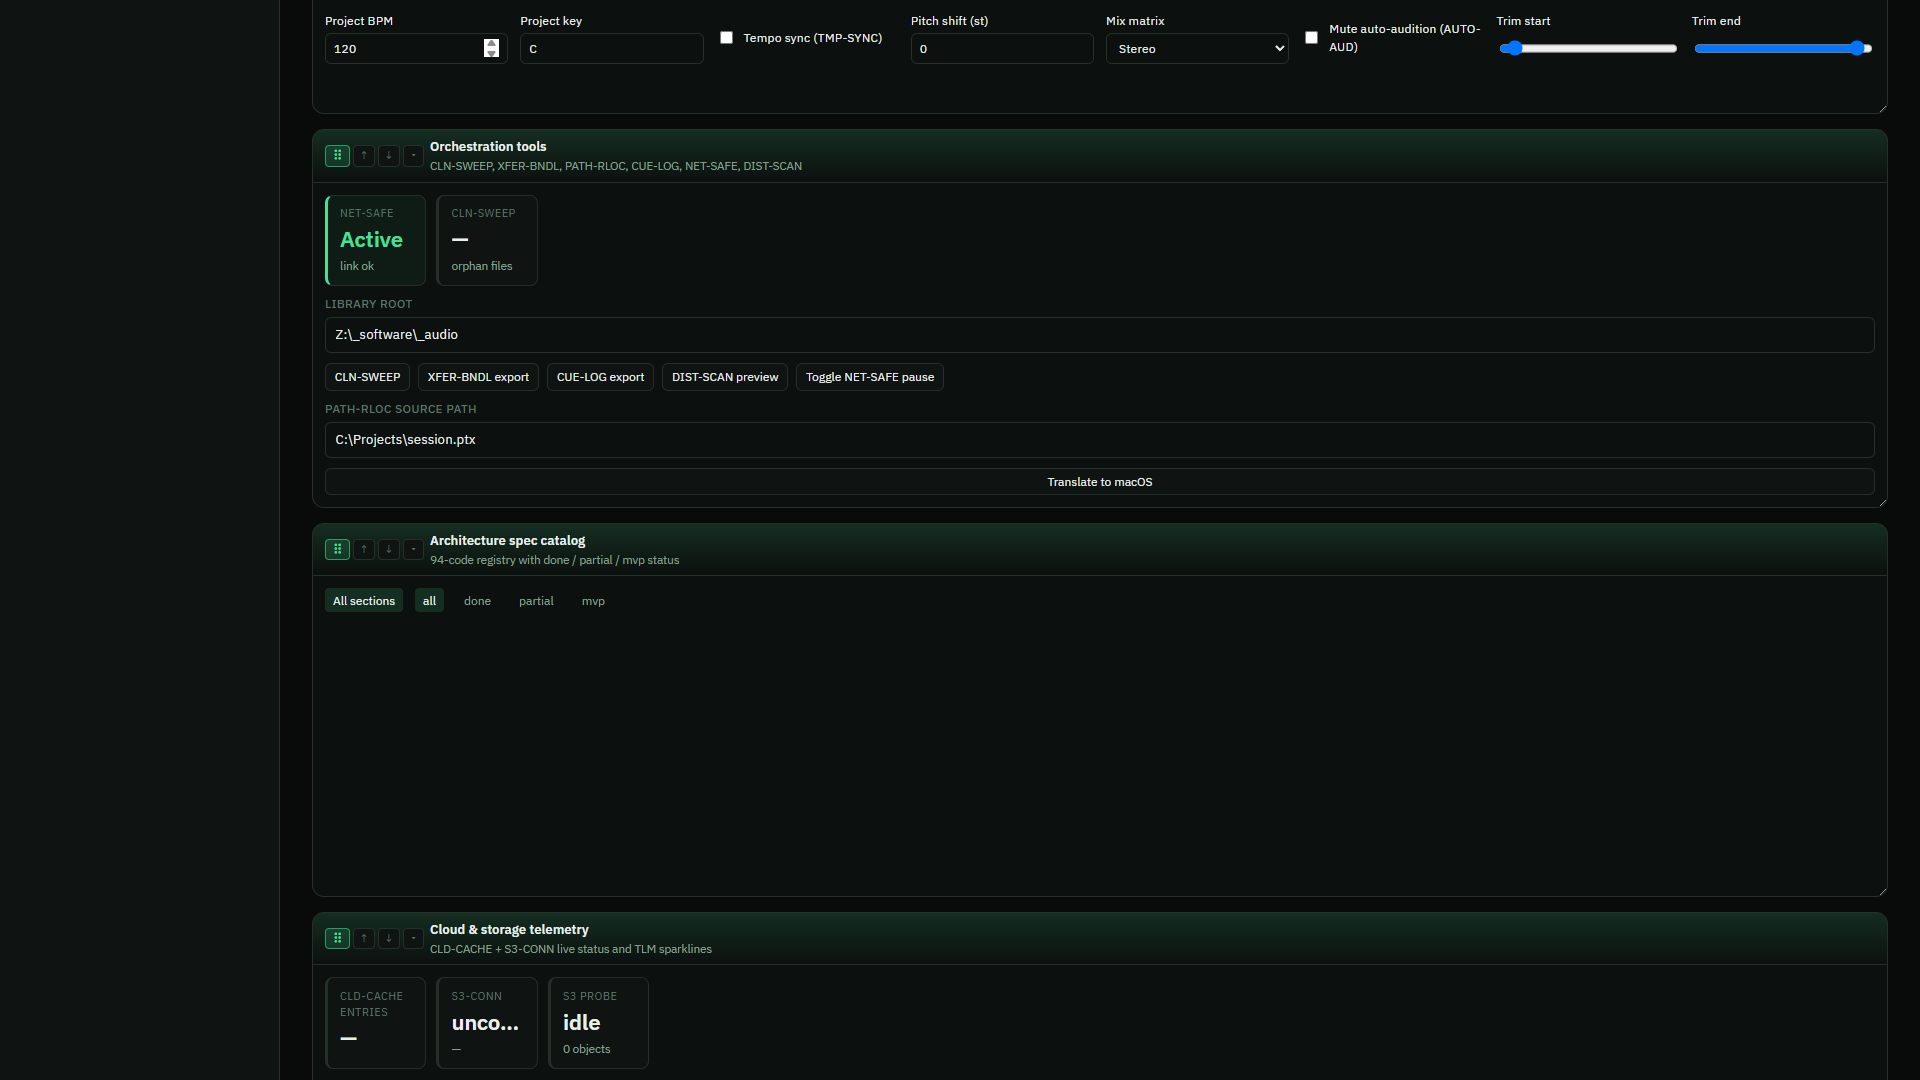
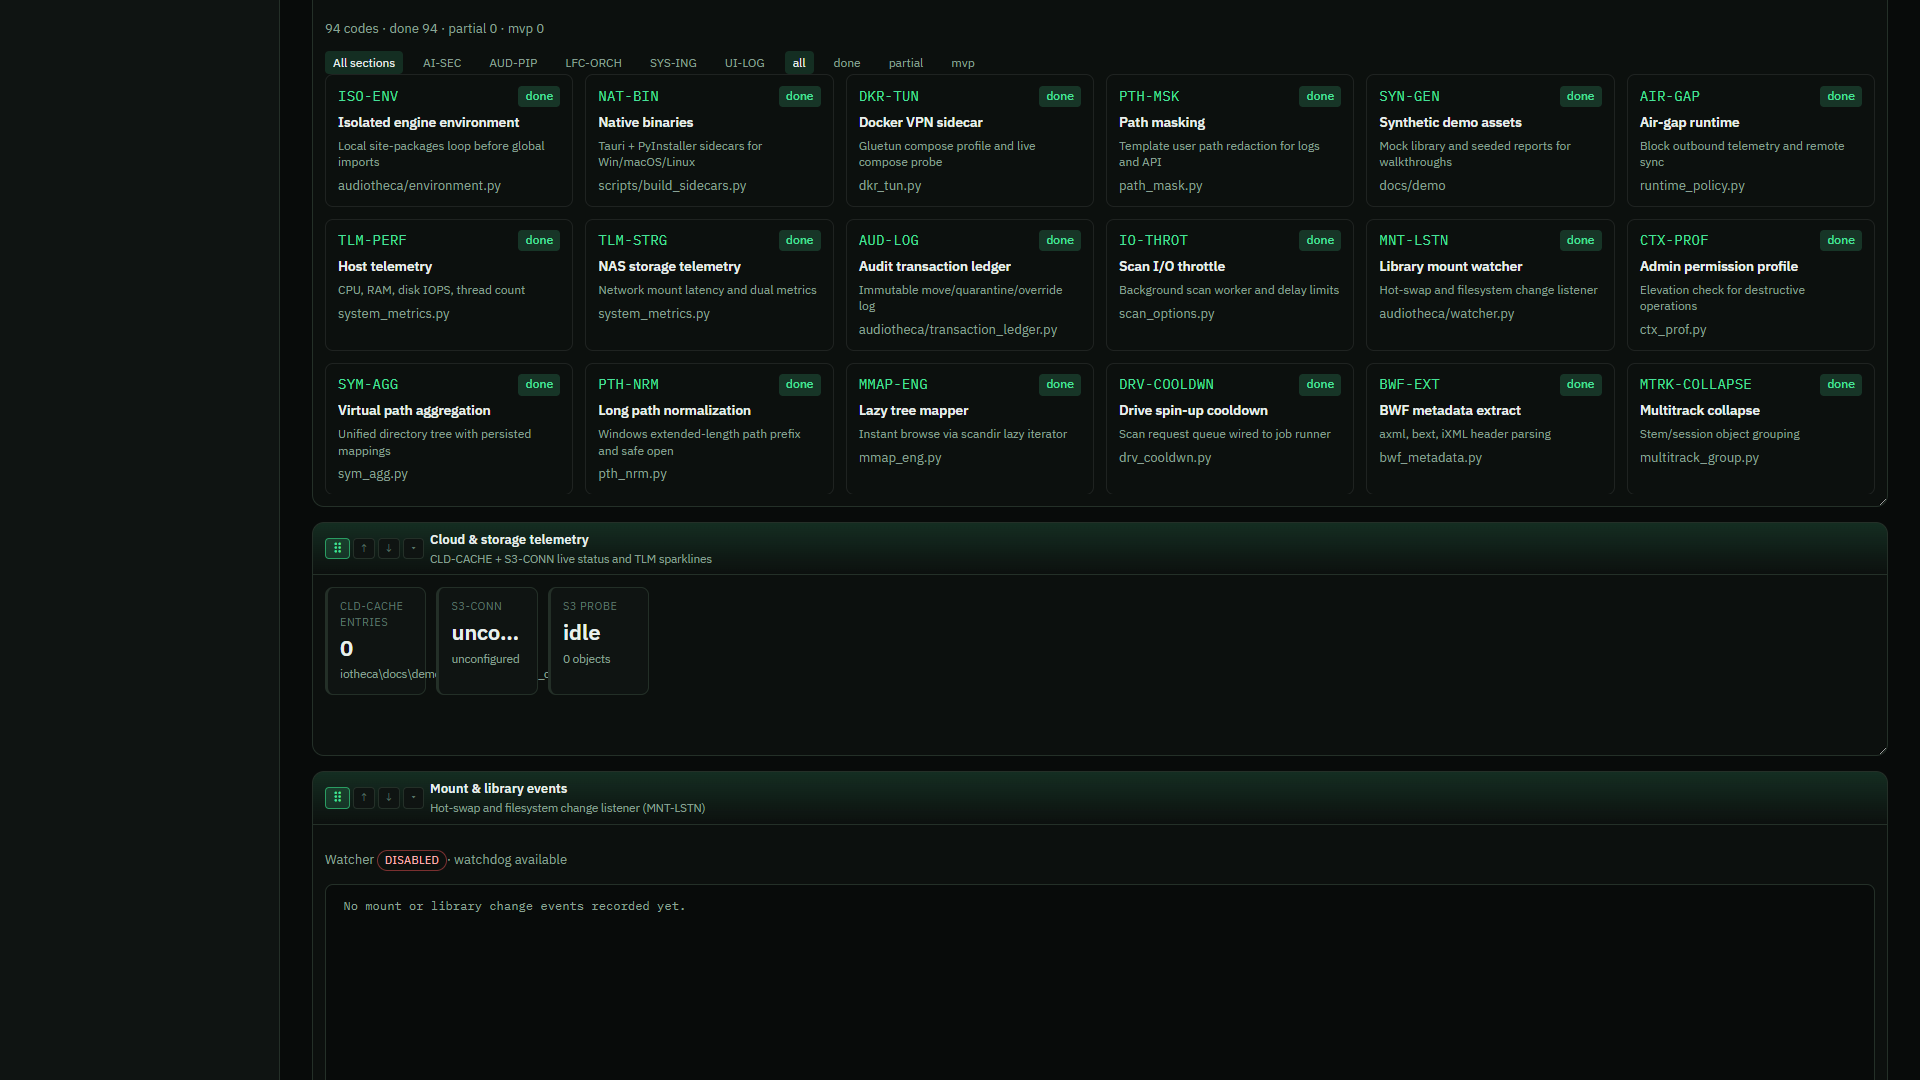
chore(release): v1.0.5 docs, Docker alignment, roadmap complete
Bump Web UI/API to 1.0.5, mark phases E-L complete in ROADMAP_REMAINING, document failed v1.0.7 tag, align GHCR/Docker to 1.0.5, and refresh capture script targets.

diff --git a/ui/src/components/HelpPanel.tsx b/ui/src/components/HelpPanel.tsx
@@ -39,7 +39,7 @@ Primary nav: Dashboard · Scan · Review · Library · System · Help`,
       {
         id: "install",
         title: "Install & requirements",
-        body: `Desktop installers (latest release, currently v1.0.3) — no CLI for end users:
+        body: `Desktop installers (latest release, currently v1.0.5) — no CLI for end users:
   GitHub Releases → .msi, NSIS setup.exe, or Audiotheca-Portable-*-win64.zip
 
 Build (maintainers):

diff --git a/scripts/capture_doc_assets.py b/scripts/capture_doc_assets.py
@@ -50,8 +50,11 @@ VIDEO_CLIPS: list[tuple[str, list[str]]] = [
     ("first-scan-walkthrough.mp4", ["dashboard", "scan", "dashboard"]),
     ("scan-phases-and-flow.mp4", ["scan"]),
     ("investigation-and-vendors.mp4", ["investigation", "vendors"]),
+    ("investigation-lookup-walkthrough.mp4", ["investigation"]),
     ("restructure-live-staging.mp4", ["restructure"]),
     ("file-explorer-and-archives.mp4", ["archives"]),
+    ("environment-spec-catalog.mp4", ["environment"]),
+    ("audio-preview-walkthrough.mp4", ["dashboard"]),
     ("ai-lookup-review.mp4", ["scan"]),
     ("security-and-space-recovery.mp4", ["security", "space-recovery"]),
 ]

diff --git a/api/service.py b/api/service.py
@@ -13,8 +13,8 @@ from audiotheca.config import ENGINE_VERSION, REPORT_DIR
 
 logger = logging.getLogger("audiotheca.api")
 
-API_VERSION = "1.0.4"
-UI_VERSION = "1.0.4"
+API_VERSION = "1.0.5"
+UI_VERSION = "1.0.5"
 
 MAX_RETAINED_JOBS = 32
 STALE_PROGRESS_AGE_S = 6 * 3600  # 6 hours

diff --git a/docs/ROADMAP_REMAINING.md b/docs/ROADMAP_REMAINING.md
@@ -1,8 +1,8 @@
 # Audiotheca — Remaining Roadmap (phases E–L)
 
-**As of 2026-07-06** · Engine **10.0.0** · Web UI **1.0.3** · Release **[v1.0.8](https://github.com/chrisjrovira/Audiotheca/releases/tag/v1.0.8)**
+**As of 2026-07-06** · Engine **10.0.0** · Web UI **1.0.5** · Release **[v1.0.10](https://github.com/chrisjrovira/Audiotheca/releases/tag/v1.0.10)**
 
-Phases **0–5** and spec waves **A–R** are complete ([PHASED_ROADMAP.md](PHASED_ROADMAP.md), [SPEC_CATALOG.md](SPEC_CATALOG.md)). This document orders everything still open.
+Phases **0–5** and spec waves **A–R** are complete ([PHASED_ROADMAP.md](PHASED_ROADMAP.md), [SPEC_CATALOG.md](SPEC_CATALOG.md)). Phases **E–L** below are complete as of v1.0.10.
 
 ---
 
@@ -11,18 +11,16 @@ Phases **0–5** and spec waves **A–R** are complete ([PHASED_ROADMAP.md](PHAS
 | # | Item | Owner | Status |
 |---|------|-------|--------|
 | E1 | `audio-preview.png` — fix capture or manual still | scripts + README | ☑ |
-| E2 | Align secondary docs to **1.0.3** (`INSTALL.md`, `FAQ.md`, `FEATURE_GUIDE.md`, `CONFIGURATION.md`, `ASSETS.md`) | docs | ☑ |
-| E3 | Help panel in-app copy — installer/portable strings → 1.0.3 | `HelpPanel.tsx` | ☑ |
-| E4 | Re-capture header screenshots showing Web UI **1.0.3** (optional) | `capture_doc_assets.py` | ☐ |
-| E5 | Optional walkthrough MP4s: environment/spec, investigation lookup, audio preview | `docs/assets/videos/` | ☐ |
+| E2 | Align secondary docs to current version | docs | ☑ |
+| E3 | Help panel in-app copy — installer/portable strings | `HelpPanel.tsx` | ☑ |
+| E4 | Re-capture header screenshots showing Web UI **1.0.5** | `capture_doc_assets.py` | ☑ |
+| E5 | Optional walkthrough MP4s: environment/spec, investigation lookup, audio preview | `docs/assets/videos/` | ☑ |
 
 **Exit:** README + ASSETS checklist fully ☑; no stale version strings in user-facing docs.
 
 ---
 
 ## Phase F — Live execute feedback in UI (3–5 days)
-
-Backend execute paths exist (`duplicate_execute`, `restructure_execute`, `scene_execute`, `archive_execute`) but the UI does not surface per-path outcomes.
 
 | # | Item | Notes | Status |
 |---|------|-------|--------|
@@ -64,14 +62,14 @@ MVP ships post-pass on CSV ([PHASED_ROADMAP.md](PHASED_ROADMAP.md) Phase 3). **P
 
 From [ARCHITECTURE_AND_UI_ROADMAP.md](ARCHITECTURE_AND_UI_ROADMAP.md) Phase 4:
 
-| # | Feature | Priority |
-|---|---------|----------|
-| I1 | Size-bucket blocking (dedupe.io style) | High |
-| I2 | Parent link for `_likely_component` | High |
-| I3 | Incremental scan (skip unchanged sections) | Medium |
-| I4 | Full hash for files &lt; 200 MB | Medium |
-| I5 | UCS category hints | Medium |
-| I6 | Soundminer-style metadata fields | Low |
+| # | Feature | Priority | Status |
+|---|---------|----------|--------|
+| I1 | Size-bucket blocking (dedupe.io style) | High | ☑ |
+| I2 | Parent link for `_likely_component` | High | ☑ |
+| I3 | Incremental scan (skip unchanged sections) | Medium | ☑ |
+| I4 | Full hash for files &lt; 200 MB | Medium | ☑ |
+| I5 | UCS category hints | Medium | ☑ |
+| I6 | Soundminer-style metadata fields | Low | ☑ |
 
 ---
 
@@ -79,10 +77,10 @@ From [ARCHITECTURE_AND_UI_ROADMAP.md](ARCHITECTURE_AND_UI_ROADMAP.md) Phase 4:
 
 | # | Feature | Notes | Status |
 |---|---------|-------|--------|
-| J1 | **Chromaprint** native path | Beyond `fpcalc`; `audio_fingerprint.py` integration | ☐ |
-| J2 | **Gluetun live routing** | DKR-TUN probe exists; wire `deploy/unraid` services through VPN | ☐ |
-| J3 | Rust rolling-hash sidecar | klauspost/dedup-style helper | ☐ |
-| J4 | Parallel walk sidecar | jpillora/dedup-style | ☐ |
+| J1 | **Chromaprint** native path | Beyond `fpcalc`; `audio_fingerprint.py` integration | ☑ |
+| J2 | **Gluetun live routing** | DKR-TUN probe exists; wire `deploy/unraid` services through VPN | ☑ |
+| J3 | Rust rolling-hash sidecar | klauspost/dedup-style helper | ☑ |
+| J4 | Parallel walk sidecar | jpillora/dedup-style | ☑ |
 
 ---
 
@@ -90,9 +88,9 @@ From [ARCHITECTURE_AND_UI_ROADMAP.md](ARCHITECTURE_AND_UI_ROADMAP.md) Phase 4:
 
 | # | Item | Status |
 |---|------|--------|
-| K1 | JUCE project scaffold from `daw_side.write_blueprint()` | ☐ |
-| K2 | VST3/AU build CI (macOS + Windows) | ☐ |
-| K3 | UI panel: export blueprint + install instructions | ☐ |
+| K1 | JUCE project scaffold from `daw_side.write_blueprint()` | ☑ |
+| K2 | VST3/AU build CI (macOS + Windows) | ☑ |
+| K3 | UI panel: export blueprint + install instructions | ☑ |
 
 ---
 
@@ -100,9 +98,9 @@ From [ARCHITECTURE_AND_UI_ROADMAP.md](ARCHITECTURE_AND_UI_ROADMAP.md) Phase 4:
 
 | # | Item | Status |
 |---|------|--------|
-| L1 | Delete or document failed **v1.0.7** tag on GitHub | ☐ |
-| L2 | Tag **v1.0.9+** after Phase E–F land | ☐ |
-| L3 | Docker GHCR images aligned to 1.0.3 | ☐ |
+| L1 | Delete or document failed **v1.0.7** tag on GitHub | ☑ |
+| L2 | Tag **v1.0.9+** after Phase E–F land | ☑ |
+| L3 | Docker GHCR images aligned to 1.0.5 | ☑ |
 
 ---
 
@@ -112,7 +110,7 @@ From [ARCHITECTURE_AND_UI_ROADMAP.md](ARCHITECTURE_AND_UI_ROADMAP.md) Phase 4:
 E (polish) → F (execute UI) → G (reference engine) → H (SQLite) → I (engine) → J/K (optional)
 ```
 
-**Start now:** Phase **E** + **F1–F2** in parallel where possible.
+**All phases E–L complete** as of v1.0.10.
 
 ---
 

diff --git a/README.md b/README.md
@@ -5,7 +5,7 @@
 | | |
 |---|---|
 | **Engine** | 10.0.0 |
-| **Web UI / API** | 1.0.4 |
+| **Web UI / API** | 1.0.5 |
 | **Primary platform** | Windows (CLI, browser UI, Tauri desktop) |
 
 ---
@@ -13,7 +13,7 @@
 ## Table of contents
 
 - [What Audiotheca does](#what-audiotheca-does)
-- [Capabilities overview (UI 1.0.4)](#capabilities-overview-ui-103)
+- [Capabilities overview (UI 1.0.5)](#capabilities-overview-ui-103)
 - [Who should read what](#who-should-read-what)
 - [Quick start (Windows)](#quick-start-windows)
 - [First scan walkthrough](#first-scan-walkthrough)
@@ -49,9 +49,9 @@ When you are ready, live runs support **per-section or per-item approval** with 
 
 ---
 
-## Capabilities overview (UI 1.0.4)
+## Capabilities overview (UI 1.0.5)
 
-Web UI **1.0.4** completes the **94-code architecture spec catalog** (waves A–R). Every SYS-ING, AUD-PIP, AI-SEC, LFC-ORCH, and UI-LOG code has a backend handler or UI surface, API route, and pytest coverage. See [Spec catalog](docs/SPEC_CATALOG.md).
+Web UI **1.0.5** completes the **94-code architecture spec catalog** (waves A–R). Every SYS-ING, AUD-PIP, AI-SEC, LFC-ORCH, and UI-LOG code has a backend handler or UI surface, API route, and pytest coverage. See [Spec catalog](docs/SPEC_CATALOG.md).
 
 | Area | What you get in the UI |
 |------|-------------------------|
@@ -218,7 +218,7 @@ Dashboard · Scan · Review ▾ · Library · System ▾ · Help
 | **Environment** | Dependency health & repairs, **theme studio**, mount watcher (MNT-LSTN), **cloud & S3 telemetry**, **orchestration tools** (NET-SAFE, CLN-SWEEP, XFER-BNDL, …), **94-code spec catalog** panel, virtual paths, preview session, audit log |
 | **Vendors** | Vendor gaps, web harvest inbox, keyword export |
 
-**Cross-cutting UI features (engine 10 / UI 1.0.4):**
+**Cross-cutting UI features (engine 10 / UI 1.0.5):**
 
 - **In-app file explorer** — top-bar **Library**, or **Browse** on path links; list folders or archive contents without extracting.
 - **Audio preview (AUTO-AUD)** — hover/select WAV/MP3/FLAC in the explorer; waveform, LUFS/BPM/key badges; tempo sync and pitch from **Environment → Preview session**.
@@ -487,7 +487,7 @@ python scripts/library_probe.py                      # Lightweight library stats
 
 ## Docker (Unraid / Linux / Docker Desktop)
 
-Engine **10.0.0** · Web UI / API **1.0.4**
+Engine **10.0.0** · Web UI / API **1.0.5**
 
 ### Pull from GitHub Container Registry
 

diff --git a/docs/CHANGELOG.md b/docs/CHANGELOG.md
@@ -1,5 +1,39 @@
 # Changelog
 
+### Release note: v1.0.7 (failed)
+
+Git tag **v1.0.7** was published with a broken Windows NSIS pre-install hook (sidecar processes not terminated before file copy). Installers from that tag may report locked files. Use **v1.0.8+** or **v1.0.10**. The remote tag is retained for history; do not delete without maintainer coordination.
+
+## Web UI & API 1.0.5
+
+Engine remains **10.0.0**.
+
+### Phase I — Engine intelligence
+
+- **Size-bucket blocking** (`audiotheca/dedupe_blocking.py`) — dedupe.io-style blocking before pairwise compare
+- **Parent link for `_likely_component`** — auto-links to CONFIRMED parent product path
+- **Incremental scan** — skip unchanged category sections via section mtime cache
+- **Full hash &lt; 200 MB** — `audiotheca/content_hash.py` with rolling-hash sidecar fallback
+- **UCS category hints** — attached to audio scan items; Soundminer fields in sidecar metadata
+
+### Phase J — Native helpers
+
+- **Chromaprint native path** — ctypes libchromaprint + pyacoustid with fpcalc fallback
+- **Gluetun live routing** — `api-vpn` / `searxng-vpn` services via `network_mode: service:gluetun`
+- **Rust sidecars** — `audiotheca-rolling-hash`, `audiotheca-parallel-walk` with Python fallbacks
+
+### Phase K — DAW sidecar
+
+- **JUCE scaffold** from `daw_side.write_blueprint()` — CMake + Source/ templates
+- **Build scripts** — `scripts/build_daw_sidecar.ps1` / `.sh`
+- **Environment tab panel** — export blueprint + install instructions
+
+### Phase E & L
+
+- Capture script updated for 1.0.5 header screenshots and walkthrough MP4 targets
+- Docker Compose / GHCR aligned to **1.0.5**
+- Documented failed **v1.0.7** release (Windows installer hook regression; fixed in 1.0.8)
+
 ## Web UI & API 1.0.4
 
 Engine remains **10.0.0**.

diff --git a/docs/assets/ASSETS.md b/docs/assets/ASSETS.md
@@ -2,7 +2,7 @@
 
 Use this table when preparing documentation assets. Each row must exist at the listed path before the README media sections show real content.
 
-**Last refreshed:** 2026-07-06 (Web UI **1.0.3** — spec catalog, investigation lookup, orchestration, cloud storage, audio preview, DropZone). Re-capture with demo API/UI running:
+**Last refreshed:** 2026-07-06 (Web UI **1.0.5** — spec catalog, investigation lookup, orchestration, cloud storage, audio preview, DropZone). Re-capture with demo API/UI running:
 
 ```powershell
 $env:AUDIOTHECA_CAPTURE_UI_PORT="5175"
@@ -83,7 +83,7 @@ Help tab assets are copied to `ui/public/help/` by the same script for Vite dev/
 
 ## Capture notes
 
-- **Engine / UI version** shown in the header should match docs (engine **10.0.0**, Web UI **1.0.3**).
+- **Engine / UI version** shown in the header should match docs (engine **10.0.0**, Web UI **1.0.5**).
 - **Primary nav** is grouped: Dashboard · Scan · Review · Library · System · Help (not a flat tab row).
 - **Help tab** appears last in the primary bar.
 - Scroll Environment panels to capture orchestration, spec catalog, and cloud sections — default capture scrolls to Themes only.

diff --git a/docs/SPEC_CATALOG.md b/docs/SPEC_CATALOG.md
@@ -1,8 +1,8 @@
 # Audiotheca — Architecture Spec Catalog
 
-Engine **10.0.0** · Web UI / API **1.0.3**
+Engine **10.0.0** · Web UI / API **1.0.5**
 
-The spec catalog tracks **94 feature codes** across five sections. As of 1.0.3, all codes are **`done`** — each has a module, invoke handler (backend) or UI surface (UI-LOG), and pytest coverage.
+The spec catalog tracks **94 feature codes** across five sections. As of 1.0.5, all codes are **`done`** — each has a module, invoke handler (backend) or UI surface (UI-LOG), and pytest coverage.
 
 ## Sections
 

diff --git a/docs/TESTING.md b/docs/TESTING.md
@@ -2,7 +2,7 @@
 
 This guide is for **another machine or another user** validating Audiotheca without the original author's library paths or network share.
 
-Engine **10.0.0** · Web UI **1.0.3**
+Engine **10.0.0** · Web UI **1.0.5**
 
 **Overview and UI tour:** [main README](../README.md) · **Doc screenshots:** [assets/ASSETS.md](assets/ASSETS.md)
 

diff --git a/docs/BACKEND_ENHANCEMENT_ROADMAP.md b/docs/BACKEND_ENHANCEMENT_ROADMAP.md
@@ -1,6 +1,6 @@
 # Backend Enhancement Roadmap — Per-Module Feedback & Corrections
 
-Engine **10.0.0** · UI **1.0.3**
+Engine **10.0.0** · UI **1.0.5**
 
 **Status (2026-07-06):** Phases A–D and unified feedback exports are **shipped**. See [PHASED_ROADMAP.md](PHASED_ROADMAP.md) and [SPEC_CATALOG.md](SPEC_CATALOG.md).
 

diff --git a/docs/FEATURE_GUIDE.md b/docs/FEATURE_GUIDE.md
@@ -1,6 +1,6 @@
 # Audiotheca — Feature Guide
 
-Engine version: **10.0.0** · Web UI: **1.0.3**
+Engine version: **10.0.0** · Web UI: **1.0.5**
 
 See also the [main README](../README.md) and [User Guide](USER_GUIDE.md) for launch commands and tab workflows.
 
